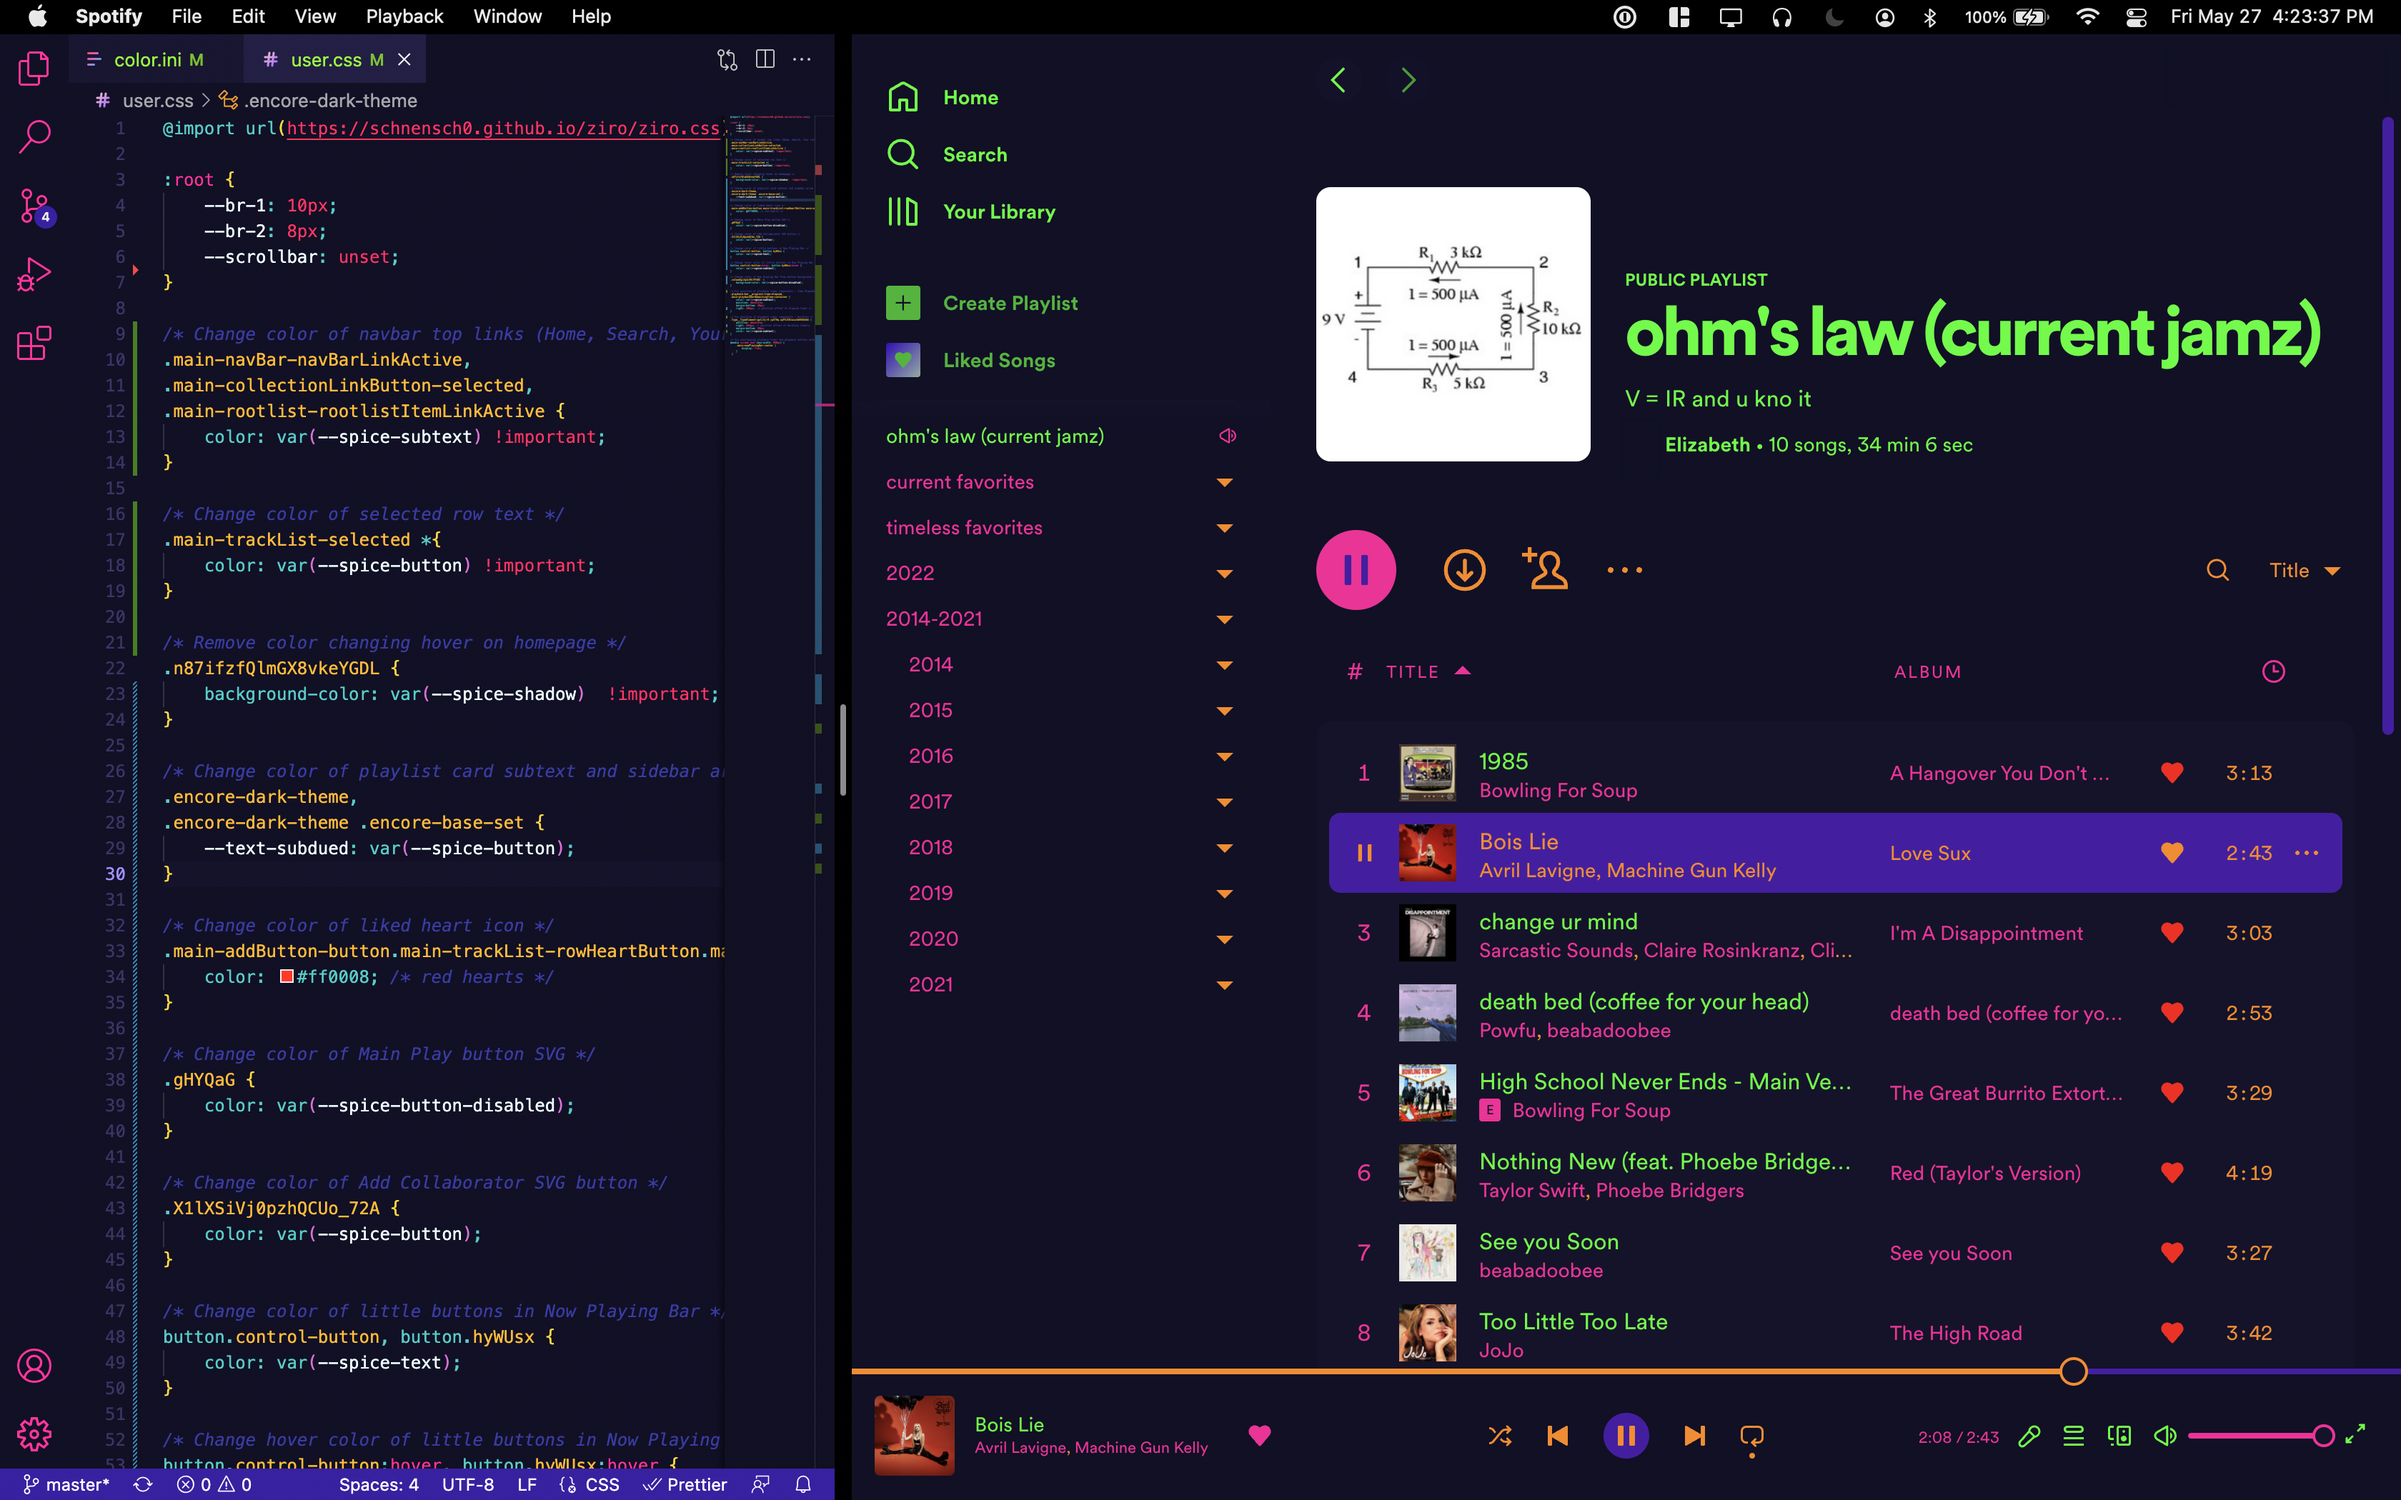
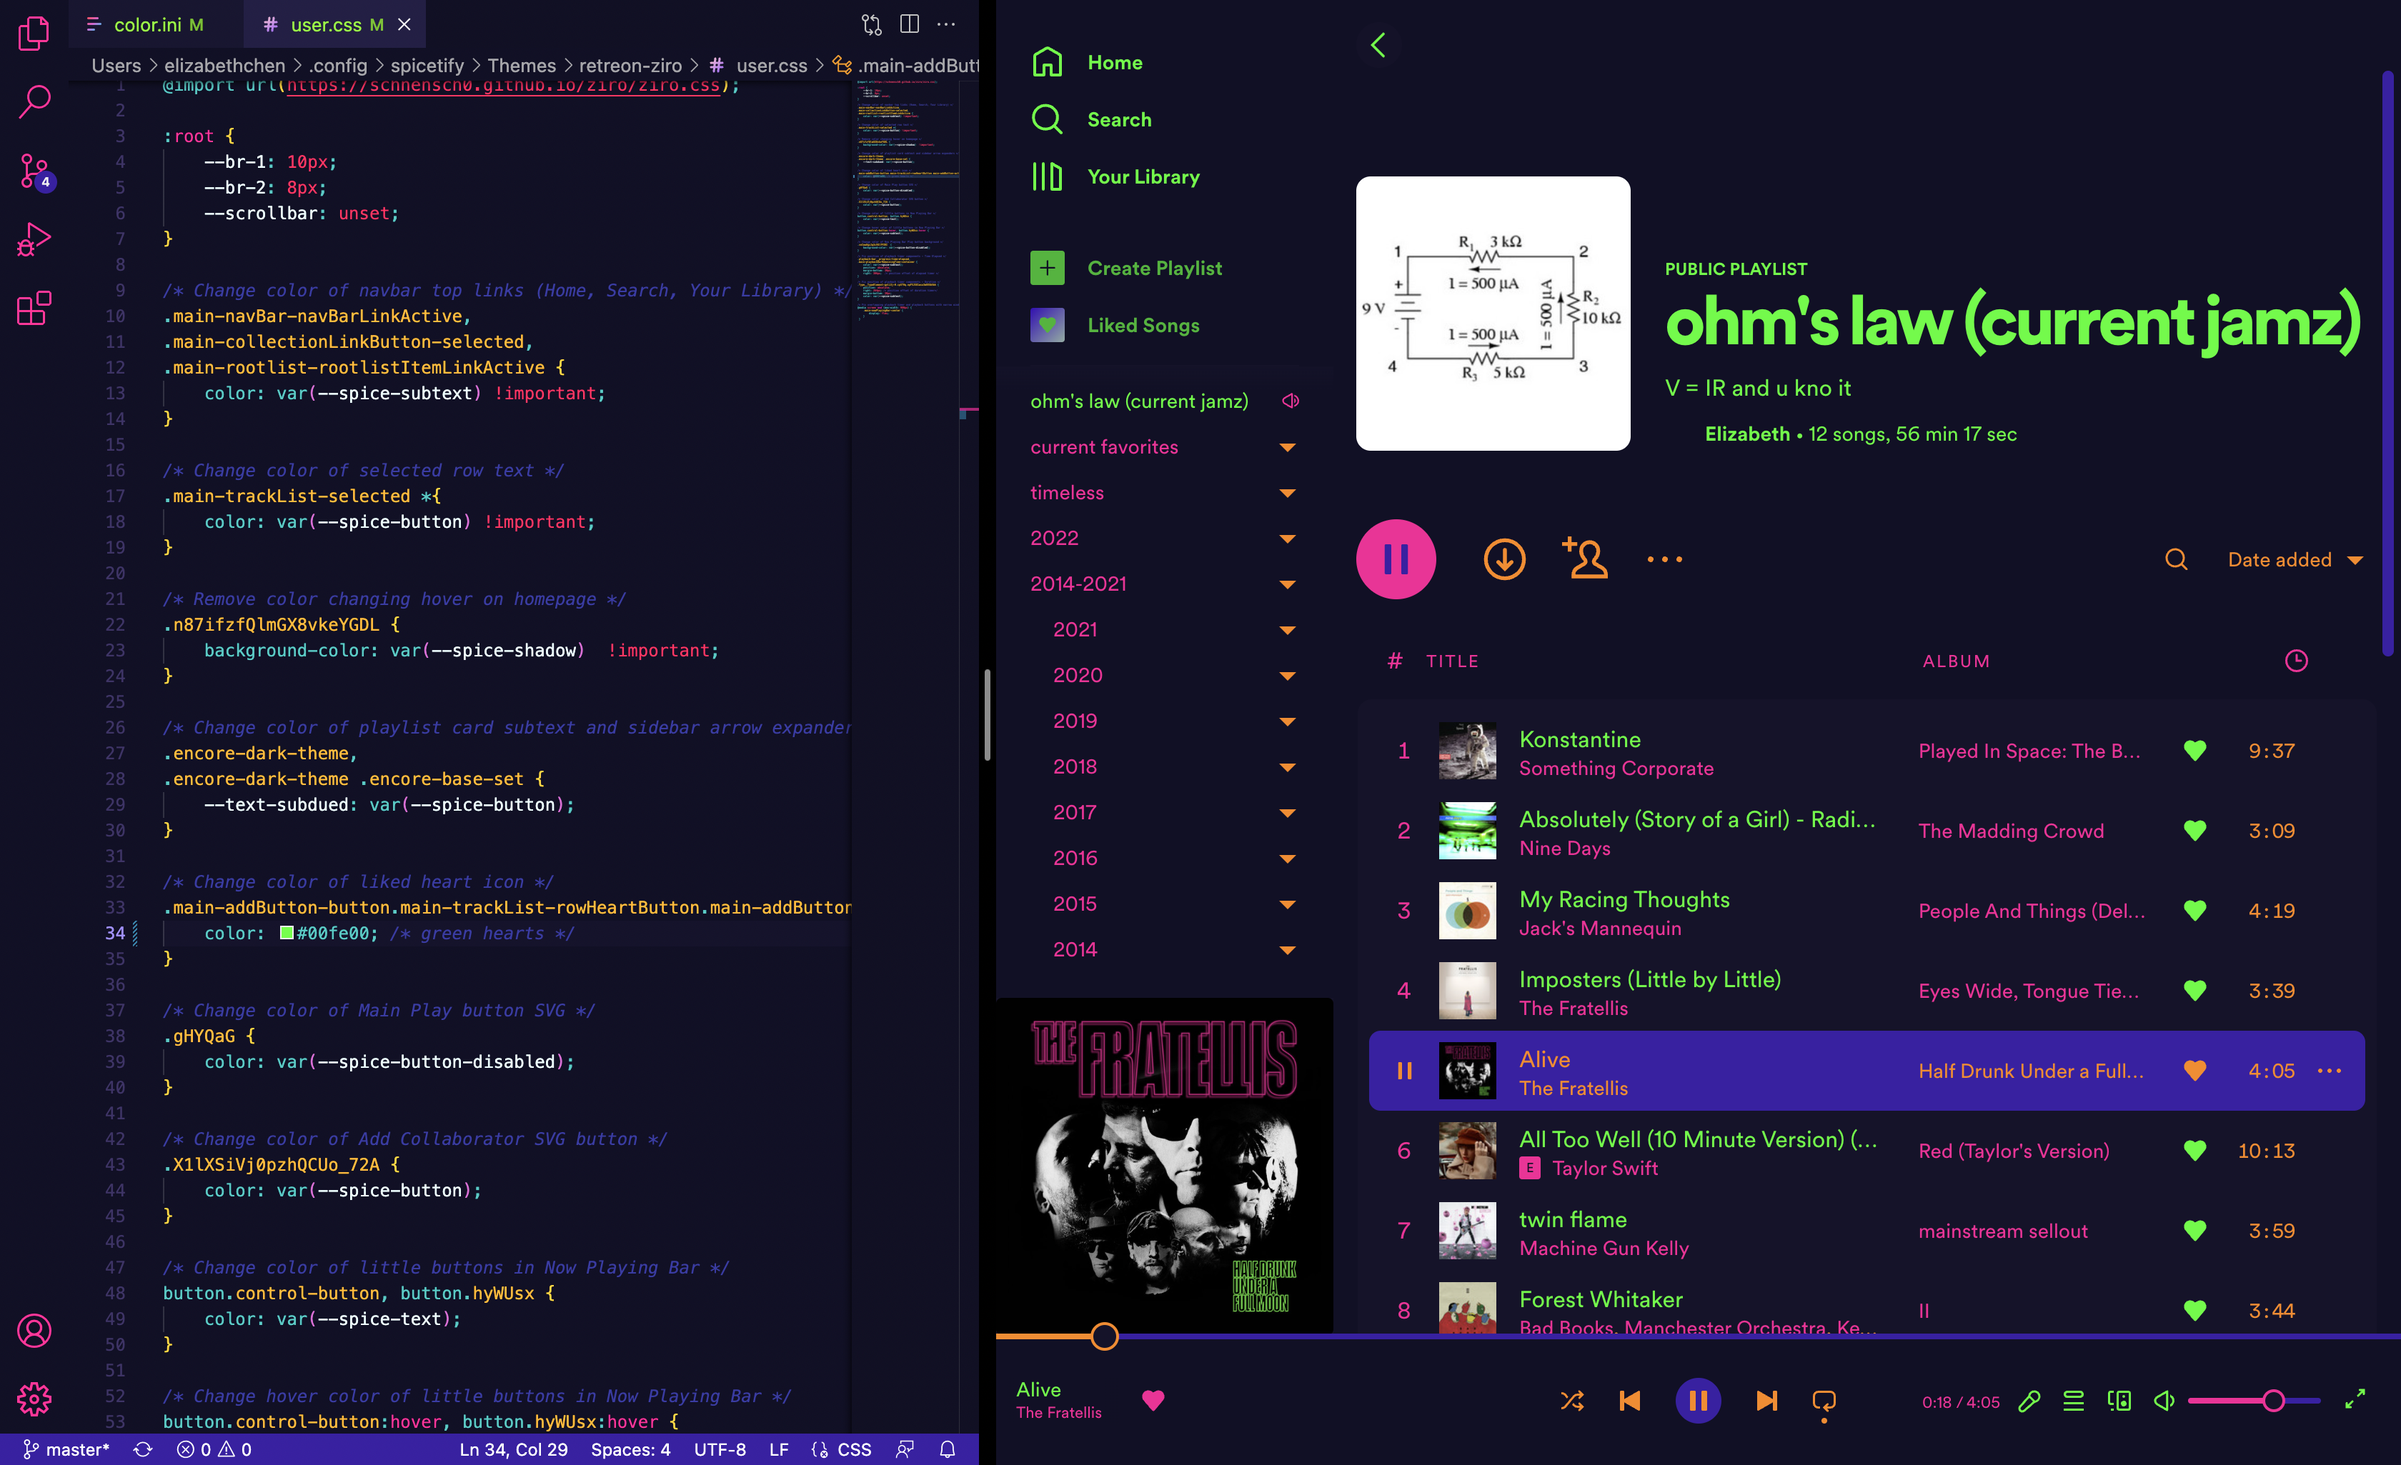
Change purple back to cooler grape tone and change hearts to neon green

diff --git a/user.css b/user.css
@@ -31,7 +31,7 @@
 
 /* Change color of liked heart icon */
 .main-addButton-button.main-trackList-rowHeartButton.main-addButton-active {
-    color: #ff0008; /* red hearts */
+    color: #00fe00; /* green hearts */
 }
 
 /* Change color of Main Play button SVG */
